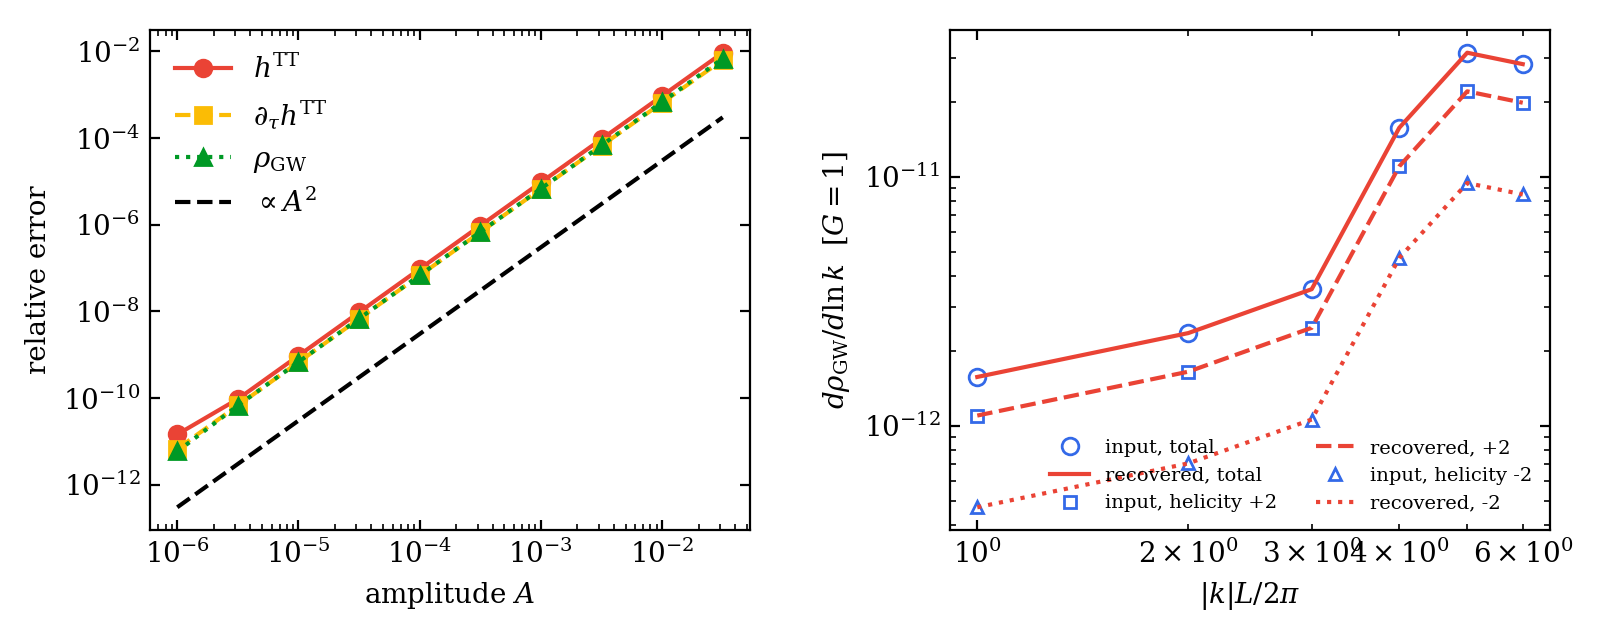
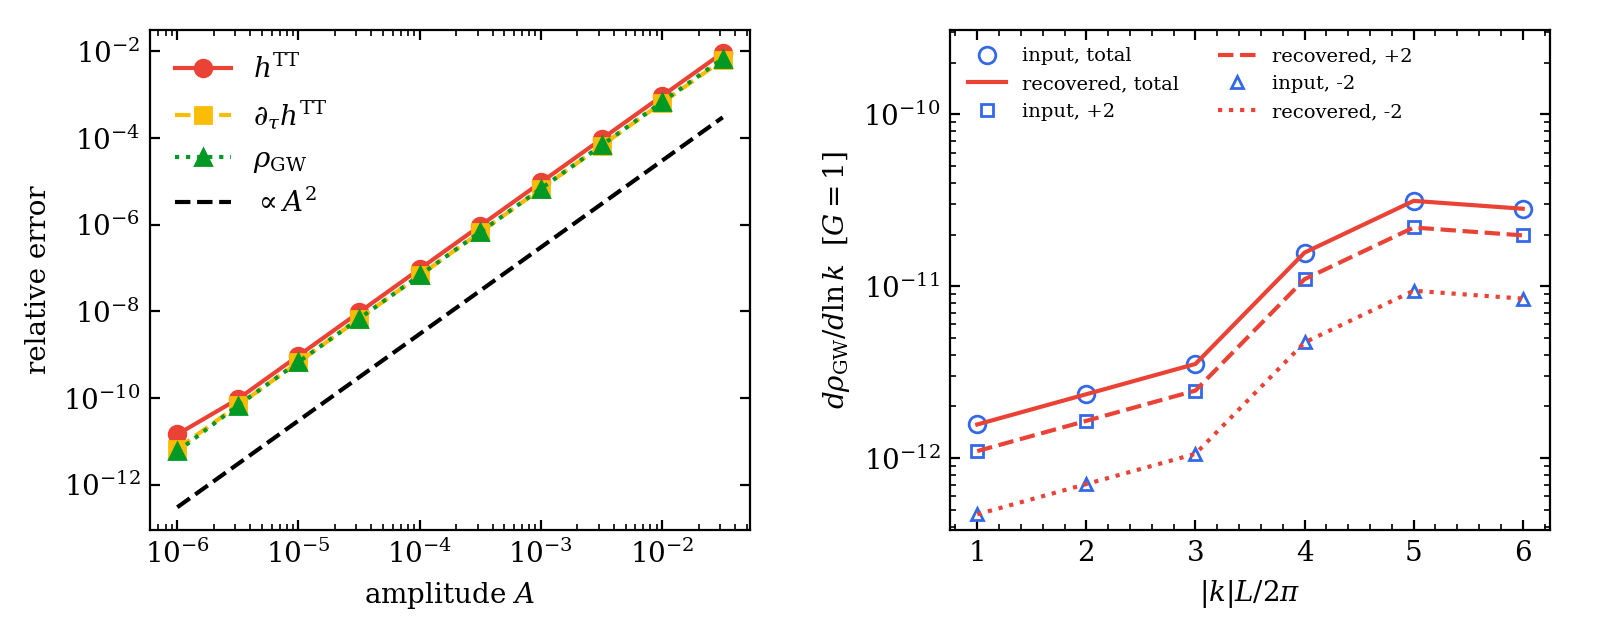
gw_diag: TT validation run B-emd-gw-20261115-115125-42096b9; time-series figure spacing
Claude-Session: https://claude.ai/code/session_01VD79cUYemmpt27M8dtYPfW

diff --git a/tracks/B-emd-gw/gw_diag/scripts/validate_tt.py b/tracks/B-emd-gw/gw_diag/scripts/validate_tt.py
@@ -190,10 +190,10 @@ ax2.set_ylim(top=ax2.get_ylim()[1] * 8)
 save(fig, "tt_amplitude_spectrum")
 
 # Figure 2: standing wave (left), travelling superposition (middle), time differences (right)
-fig = plt.figure(figsize=(8.0, 3.0))
-ax0 = fs.inch_axes(fig, 0.6, 0.55, 2.1, 2.3)
-ax1 = fs.inch_axes(fig, 3.2, 0.55, 2.1, 2.3)
-ax2 = fs.inch_axes(fig, 5.8, 0.55, 2.1, 2.3)
+fig = plt.figure(figsize=(8.0, 3.2))
+ax0 = fs.inch_axes(fig, 0.62, 0.5, 1.8, 2.3)
+ax1 = fs.inch_axes(fig, 3.35, 0.5, 1.8, 2.3)
+ax2 = fs.inch_axes(fig, 6.05, 0.5, 1.8, 2.3)
 ax0.plot(ts, 2 * sk / snorm, color=C["red"], ls="--", label=r"$2\rho_{\rm kin}$")
 ax0.plot(ts, 2 * sg / snorm, color=C["yellow"], ls=":", label=r"$2\rho_{\rm grad}$")
 ax0.plot(ts, (sk + sg) / snorm, color=C["red"], label=r"$\rho_{\rm kin}+\rho_{\rm grad}$")
